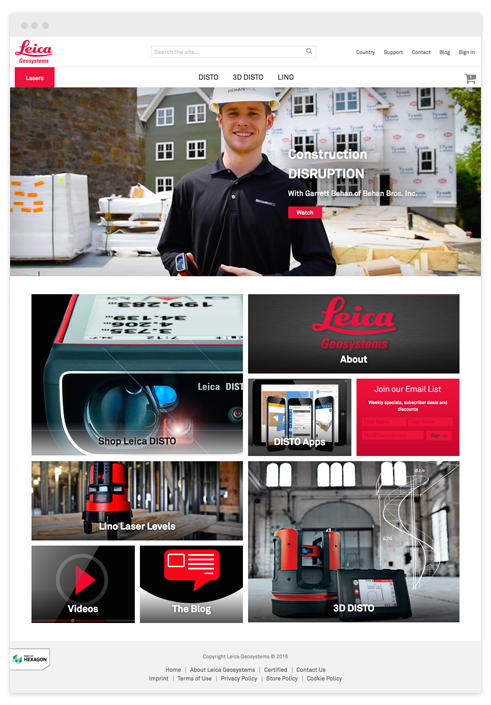
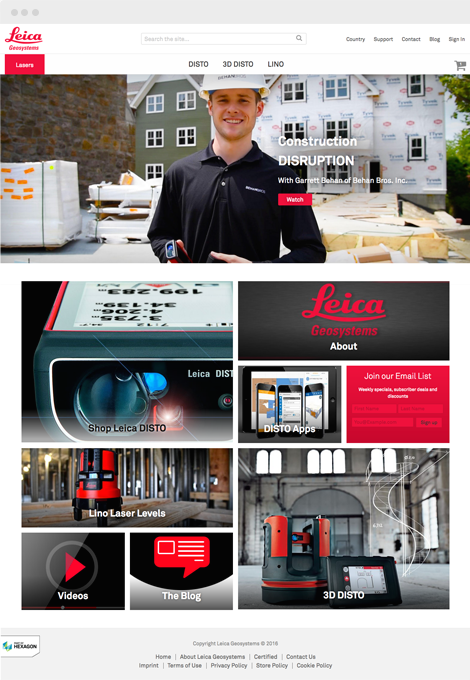
Add animations, make fixes

diff --git a/_sass/prototyping/_front-page.scss b/_sass/prototyping/_front-page.scss
@@ -1,3 +1,47 @@
+@keyframes slideInFromRight {
+  0% {
+    right: -110%;
+    opacity: 0;
+  }
+  100% {
+    right: 0;
+    opacity: 1;
+  }
+}
+
+@keyframes slideInFromLeftFull {
+  0% {
+    left: -110%;
+    opacity: 0;
+  }
+  100% {
+    left: 0;
+    opacity: 1;
+  }
+}
+
+@keyframes slideInFromLeftPartial {
+  0% {
+    left: -110%;
+    opacity: 0;
+  }
+  100% {
+    left: -10%;
+    opacity: 1;
+  }
+}
+
+@keyframes slideInFromBottom {
+  0% {
+    bottom: -100vw;
+    opacity: 0;
+  }
+  100% {
+    bottom: 0;
+    opacity: 1;
+  }
+}
+
 .container {
   padding: 0 $page-gutter;
   margin: 0 auto;
@@ -266,10 +310,12 @@
   }
 
   &__images--1 {
+    animation: slideInFromRight 2s;
     margin: 6em -1em 2em 0;
     position: relative;
 
     img:first-child {
+      animation: slideInFromRight 3s;
       position: absolute;
       top: -30%;
       right: 1em;
@@ -282,6 +328,8 @@
   } // &__images--1
 
   &__images--2 {
+    animation: slideInFromLeftFull 2s;
+    position: relative;
 
     img {
       box-shadow: $default-box-shadow;
@@ -289,6 +337,7 @@
     }
 
     @include media($medium-up) {
+      animation: slideInFromLeftPartial 2s;
       position: absolute;
       left: -10%;
       width: 40%;
@@ -319,9 +368,11 @@
   &__images--3 {
     @include display(flex);
     @include align-items(center);
+    animation: slideInFromRight 2s;
     margin-bottom: 2em;
     margin-right: -50%;
     padding-top: 3em;
+    position: relative;
 
     div {
       margin-right: 1%;
@@ -346,10 +397,10 @@
   } // &__images--3
 
   &__border {
-    @include transform( rotate(-30deg) );
-    border-bottom: 300px solid palette(mono, 10);
+    @include transform( rotate(-25deg) );
+    border-bottom: 800px solid palette(mono, 10);
     position: absolute;
-    bottom: -100px;
+    bottom: -450px;
     width: 150%;
     z-index: -1;
   }
@@ -507,11 +558,15 @@
   }
 
   &-post {
+    animation: slideInFromLeftFull 2s;
     box-shadow: $default-box-shadow;
     margin-bottom: 2em;
+    position: relative;
     text-align: left;
+    z-index: 2;
 
     &__content {
+      background-color: palette(mono, white);
       padding: 2.25em 2em;
     }
 
@@ -583,6 +638,10 @@
       }
     } // &__author
 
+    &:nth-of-type(2) {
+      animation: slideInFromRight 2s;
+    }
+
     @include media($medium-up) {
       @include span-columns(6);
 
@@ -599,10 +658,12 @@
       @include span-columns(4);
 
       &:nth-of-type(2) {
+        animation: slideInFromBottom 2s;
         margin-right: 2.35765%; // what it should be with span-columns
       }
 
       &:nth-of-type(3) {
+        animation: slideInFromRight 2s;
         display: block;
         margin-right: 0;
       }
